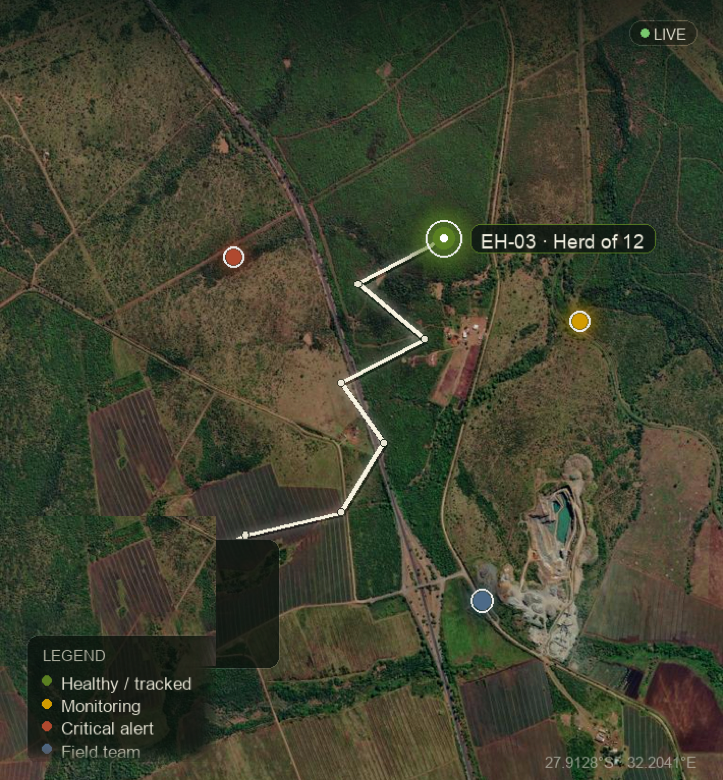
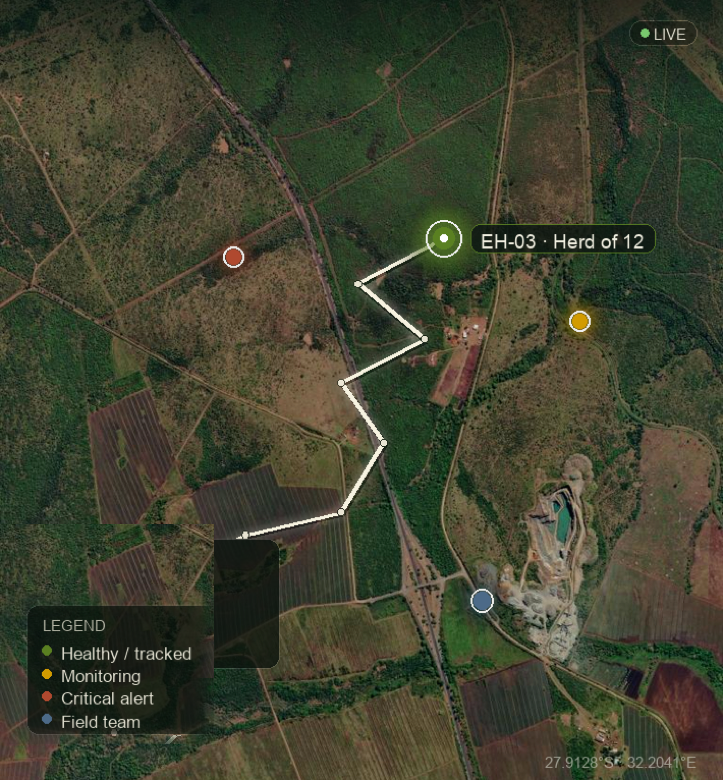
Fix legend clipping and task-panel scroll cutoff line
- Re-place tracking-map legend with full panel bbox + clear bottom margin
  (Field team row no longer clipped)
- Add bottom fade gradient to Team Dispatch task list so the partial
  card at the scroll cutoff no longer shows as a hard light line

Changed region(s): [[0.0, 0.6462, 0.3043, 0.9846]]

diff --git a/src/prototype/TeamDispatchScreen.jsx b/src/prototype/TeamDispatchScreen.jsx
@@ -132,6 +132,8 @@ export default function TeamDispatchScreen({ onNavigate }) {
         <div style={{ flex: '1 1 auto', minHeight: 0, overflowY: 'auto', overflowX: 'hidden', display: 'flex', flexDirection: 'column', gap: 8, paddingRight: 4, marginRight: -4 }}>
           {tasks.map((t) => <TaskItem key={t.id} t={t} onAssign={assign} />)}
         </div>
+        {/* bottom fade — masks the partial card at the scroll cutoff */}
+        <div style={{ position: 'absolute', left: 16, right: 16, bottom: 16, height: 26, borderBottomLeftRadius: 21, borderBottomRightRadius: 21, background: `linear-gradient(to bottom, rgba(228,228,213,0), ${COL.panel})`, pointerEvents: 'none' }} />
       </div>
 
       {/* toast */}